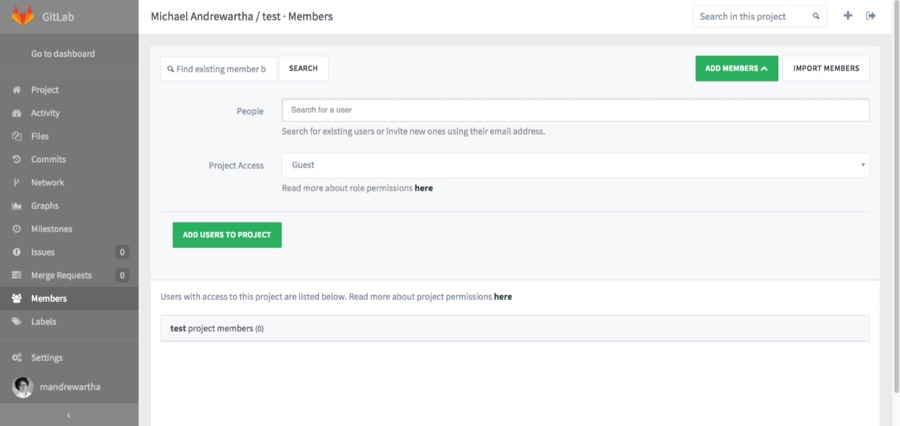
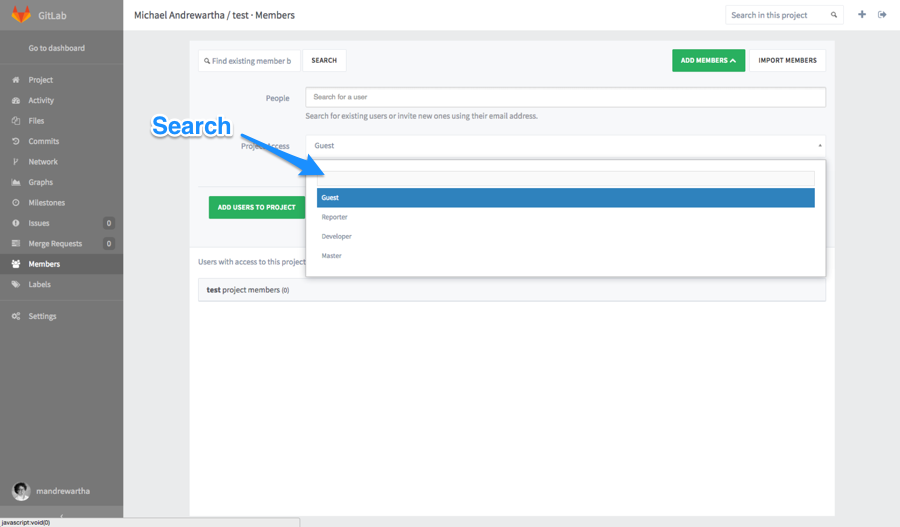
updated repository image and text for adding members

diff --git a/docs/en/03_How_tos/sharing_projects.md b/docs/en/03_How_tos/sharing_projects.md
@@ -17,11 +17,11 @@ There are 2 options available to handle permissions:
 
 ![Team Memberships](/_images/gitlab-team-home.png)
 
-1. Import team from another project
-    * This will allow you to import the team permissions from another project you have created
-    ![Team Memberships](/_images/gitlab-team-copypermissions.png).
-    * From the *Project* drop down box select the project to copy the permissions from.
-2. New Team Member
+1. Import Members
+    * This will allow you to import the team permissions from another project you have created.
+    ![Team Memberships](/_images/gitlab-team-copypermissions.png)
+    * From the *Project Access* drop down box select the project to copy the permissions from.
+2. Add Members
     * This will allow you to assign permissions to the repository to another Gitlab user
     ![Team Memberships](/_images/gitlab-team-newuser.png)
     * Either type the name of the user or select from the drop down box.
